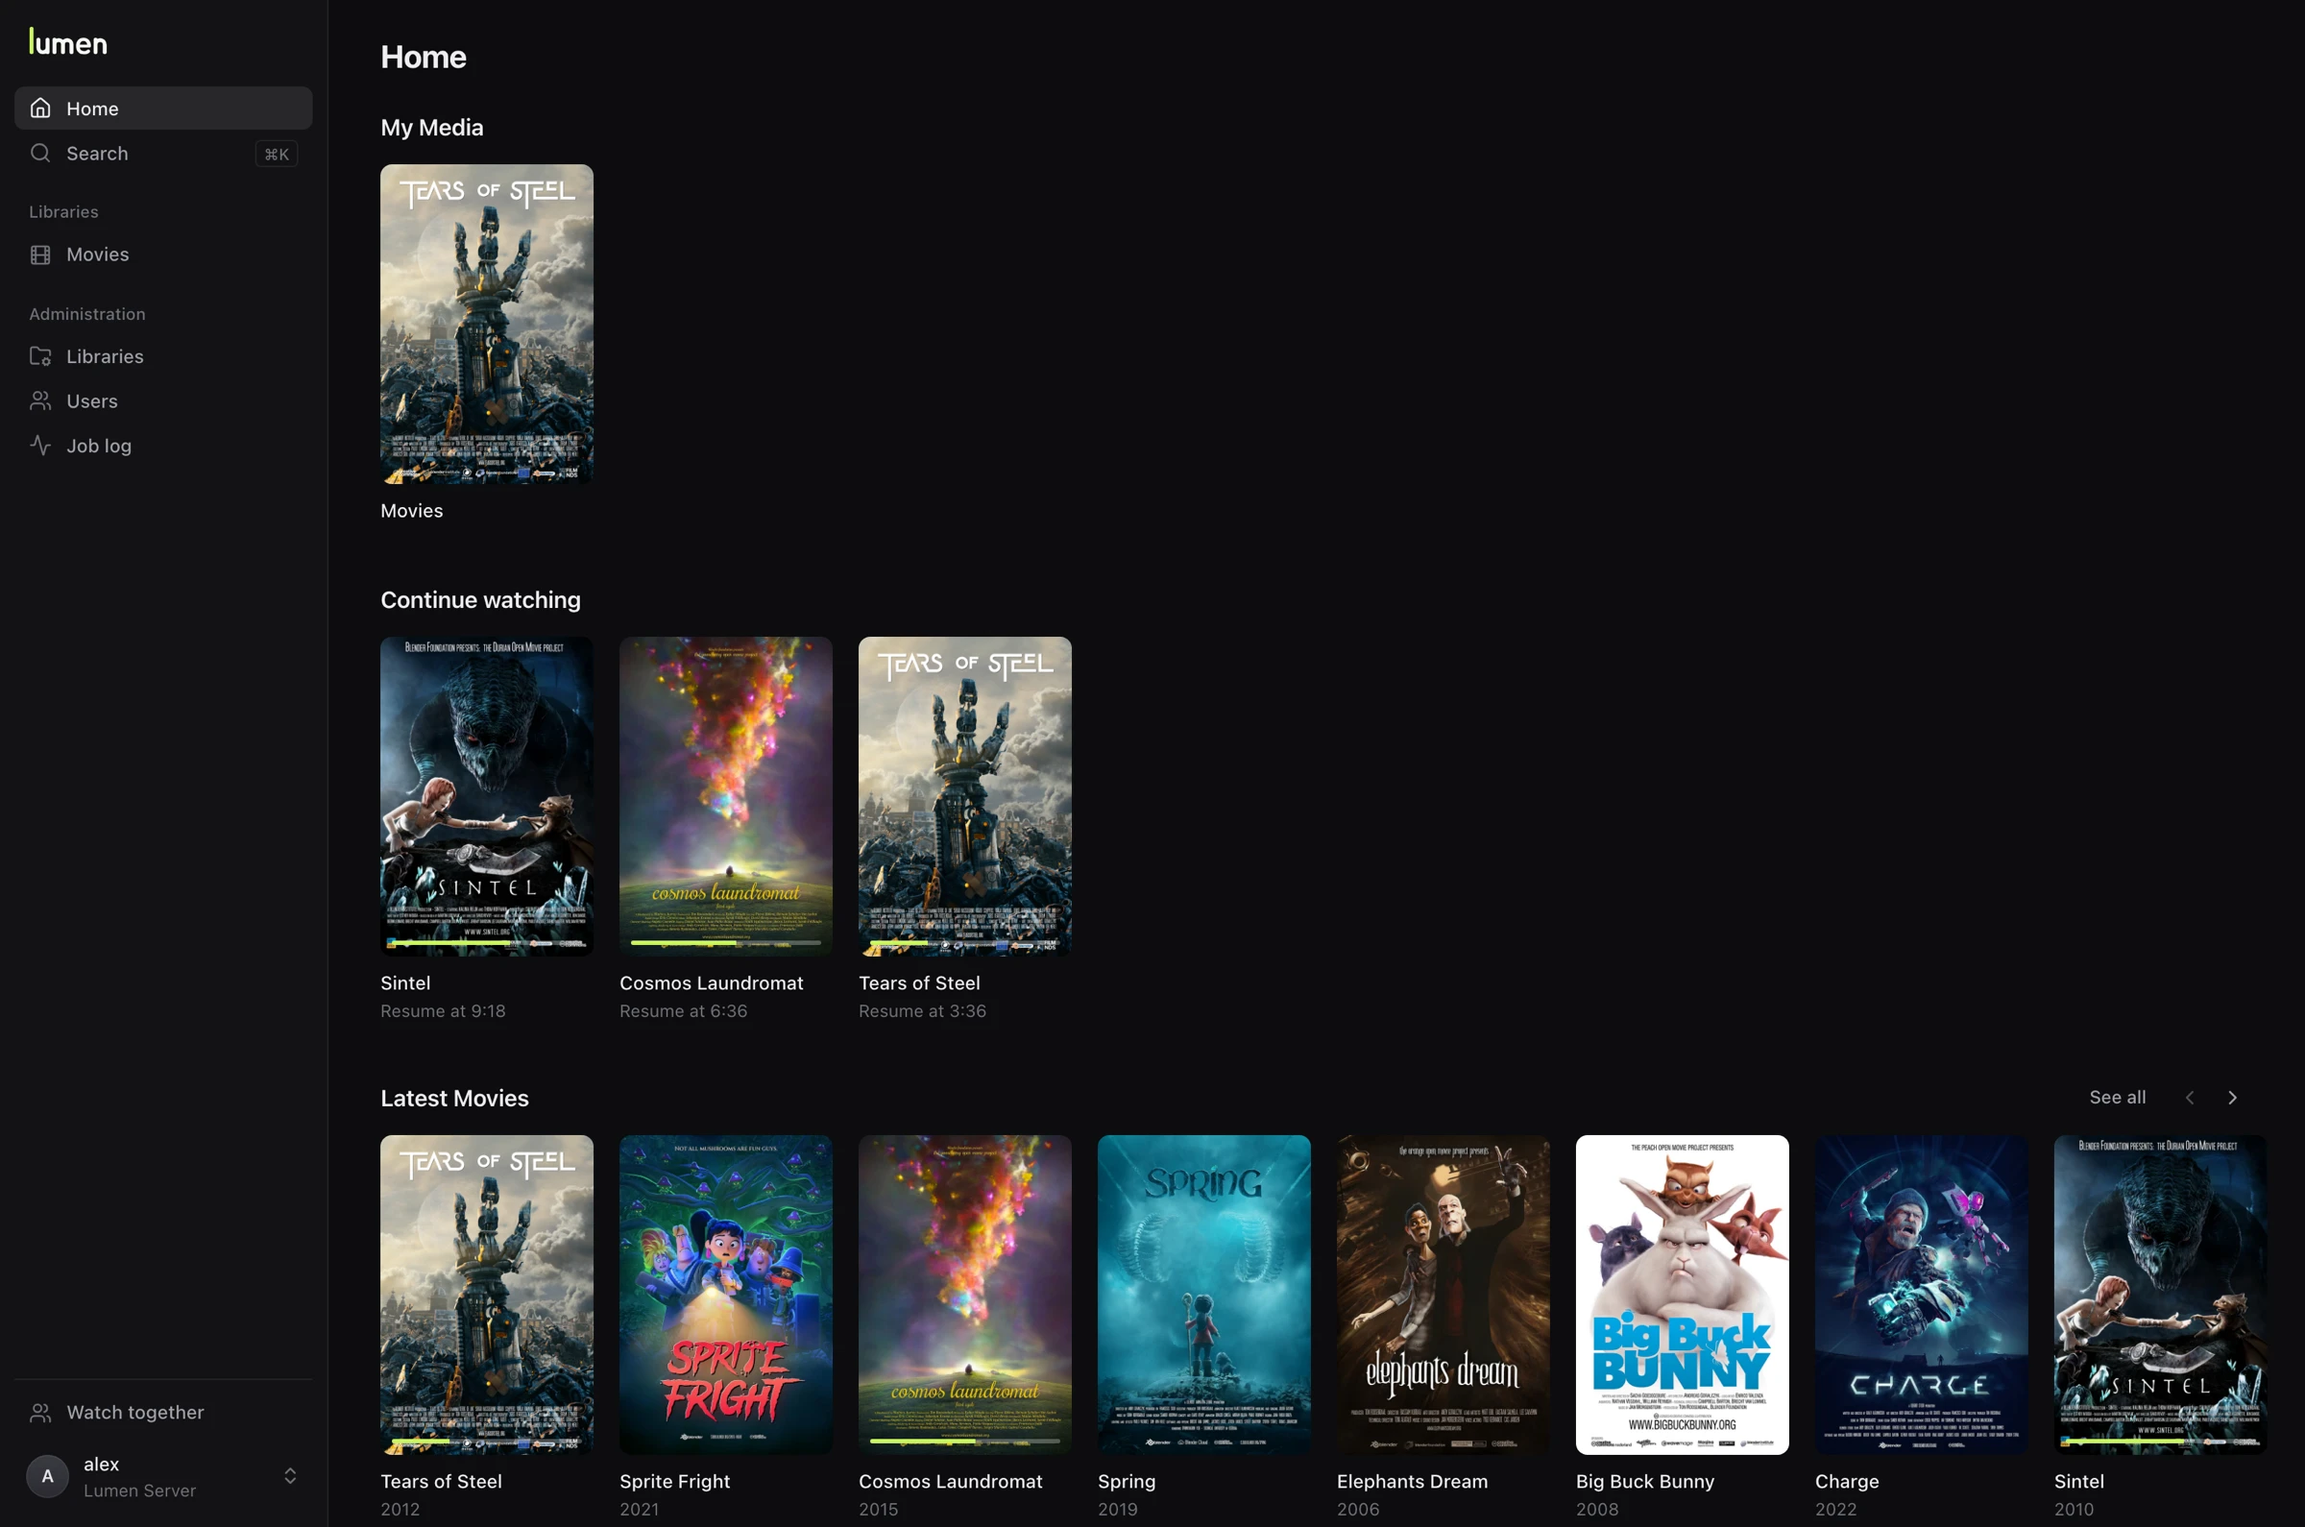
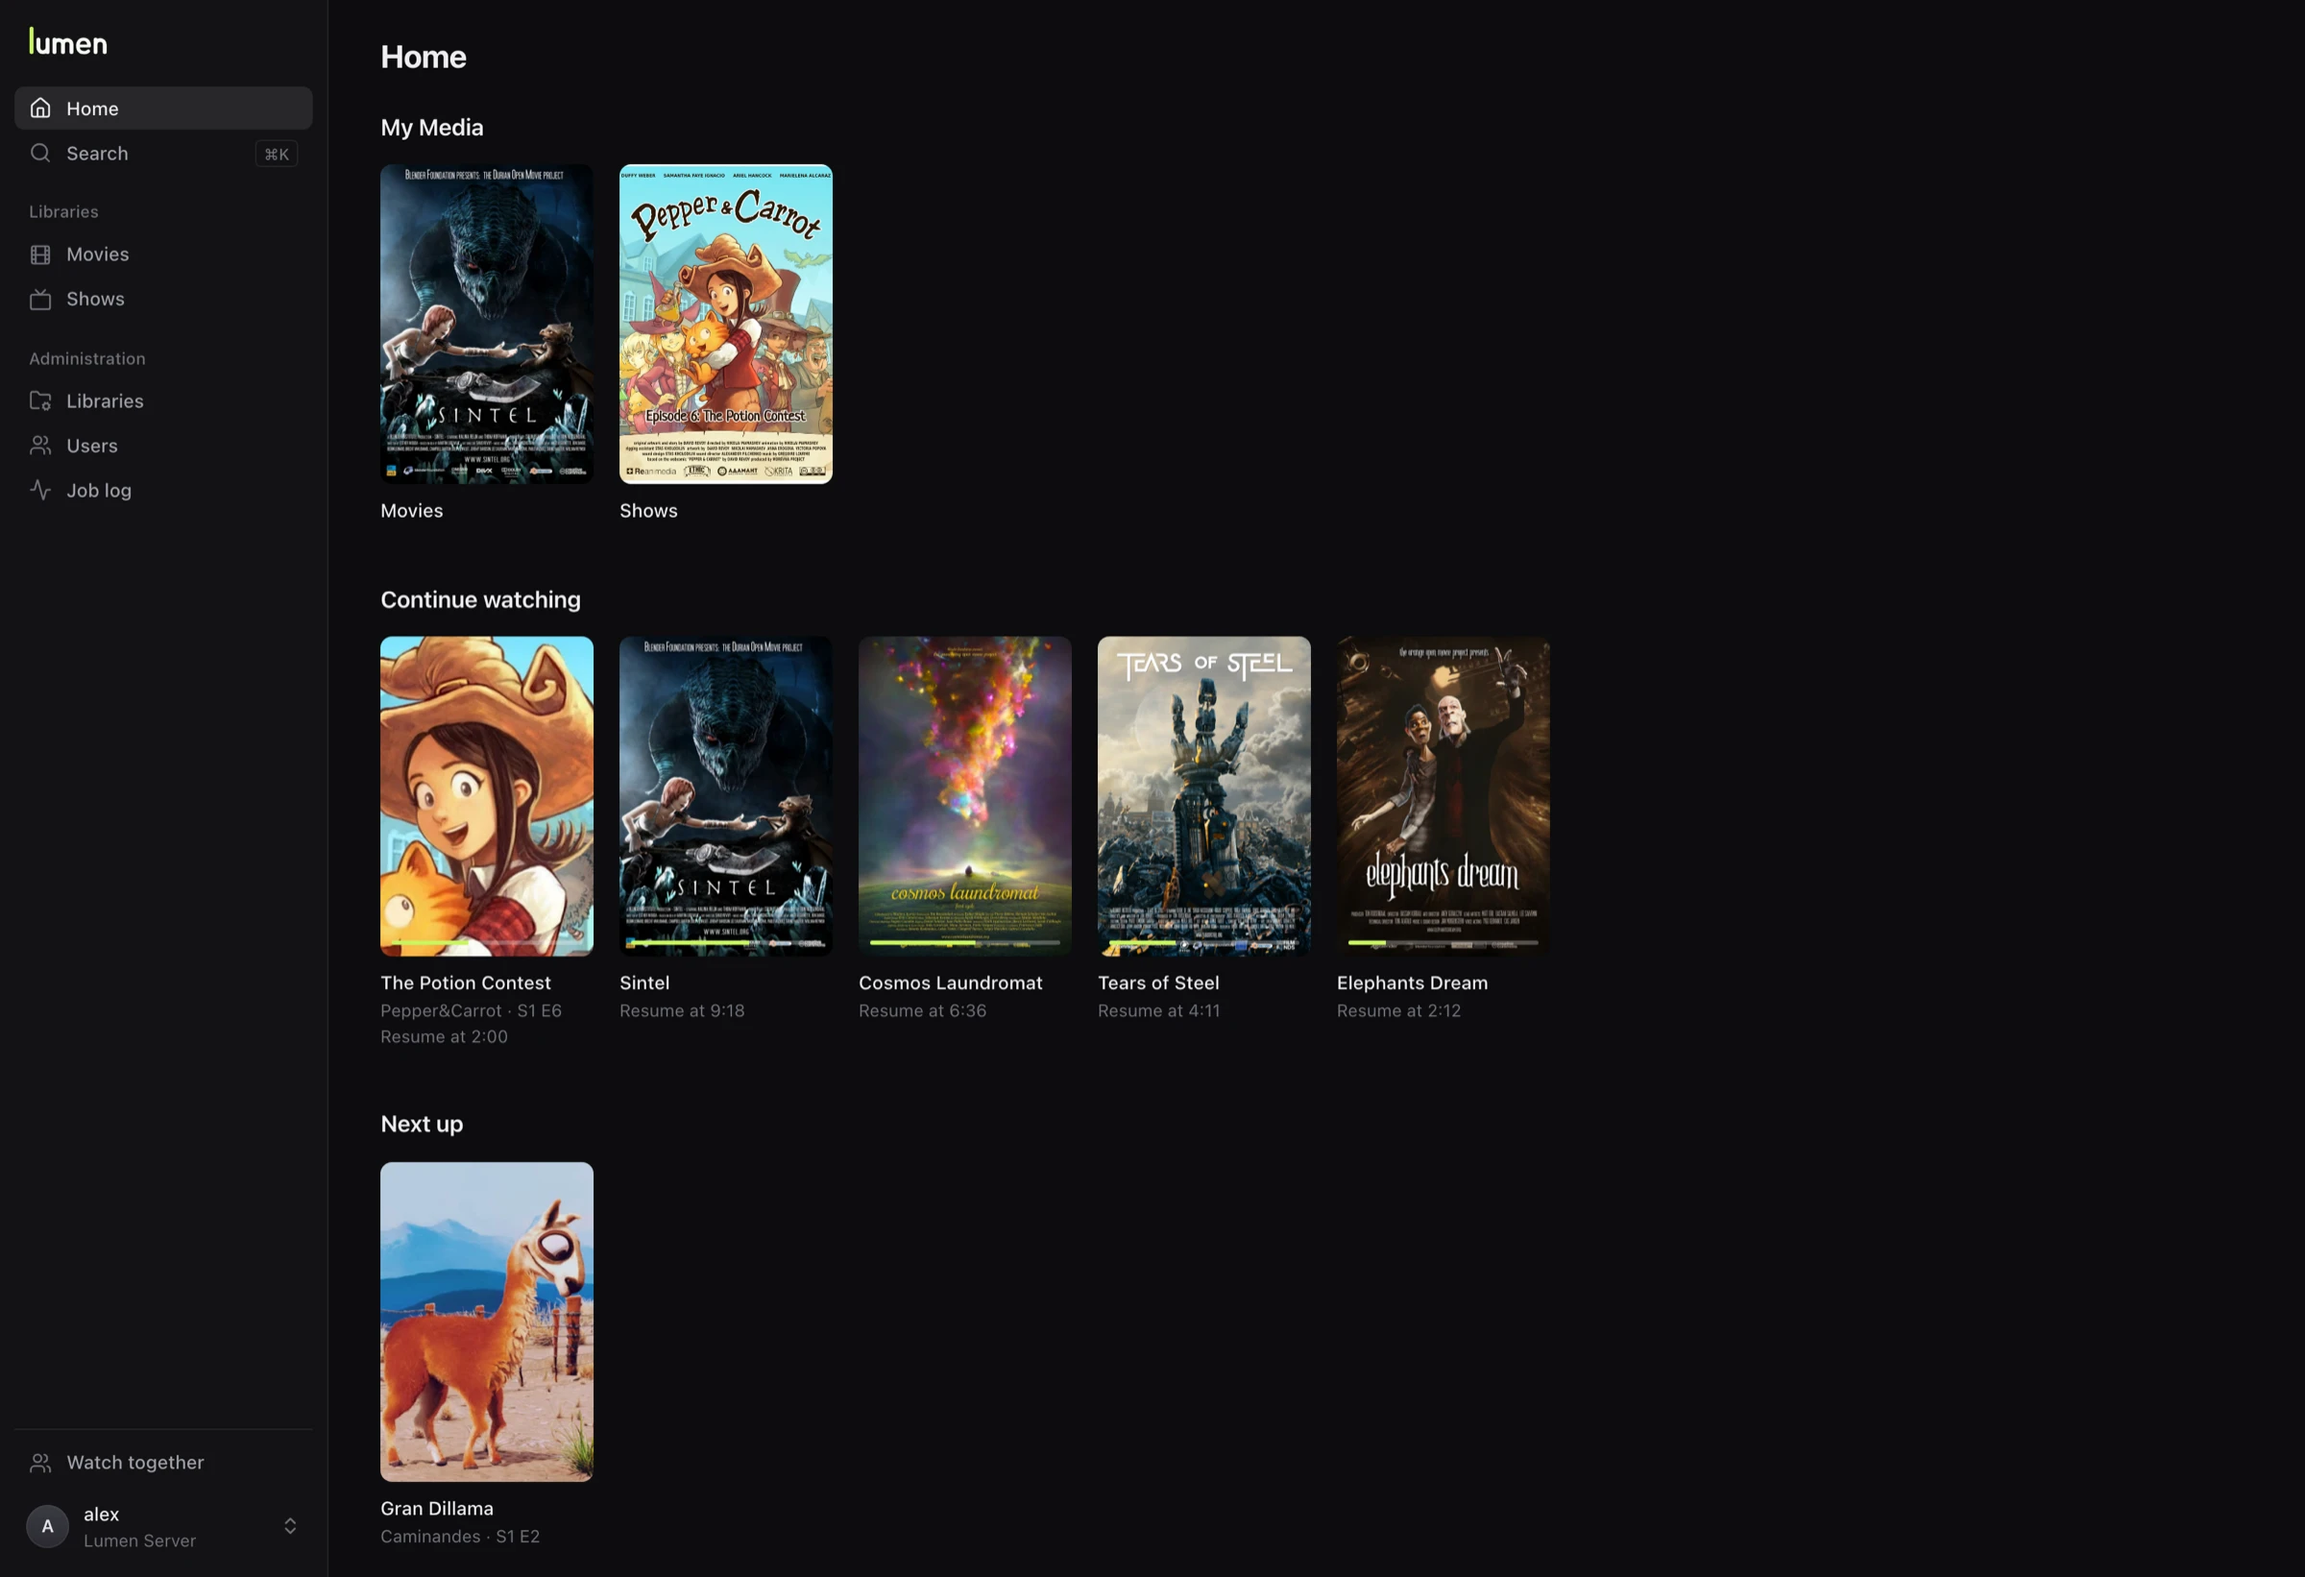
docs: show movies and shows together in the hero screenshot

diff --git a/README.md b/README.md
@@ -15,9 +15,9 @@ A self-hosted media server with a fast desktop app, a web app for everywhere els
 
 [Install](#install) · [Features](#features) · [Apps](#get-the-apps) · [Home and away](#at-home-and-away) · [Configuration](#configuration) · [FAQ](#faq)
 
-<img alt="The Lumen home screen, with Continue watching and Latest Movies rows" src="docs/images/home.webp" width="900">
+<img alt="The Lumen home screen, with Movies and Shows libraries, Continue watching, and Next up" src="docs/images/home.webp" width="900">
 
-<sub>Posters from <a href="https://studio.blender.org/films/">Blender Studio's open movies</a>, CC BY 3.0 / 4.0.</sub>
+<sub>Artwork from <a href="https://studio.blender.org/films/">Blender Studio's open movies</a> and the <a href="https://morevnaproject.org">Morevna Project</a>'s Pepper&amp;Carrot, CC BY 3.0 / 4.0.</sub>
 
 </div>
 
